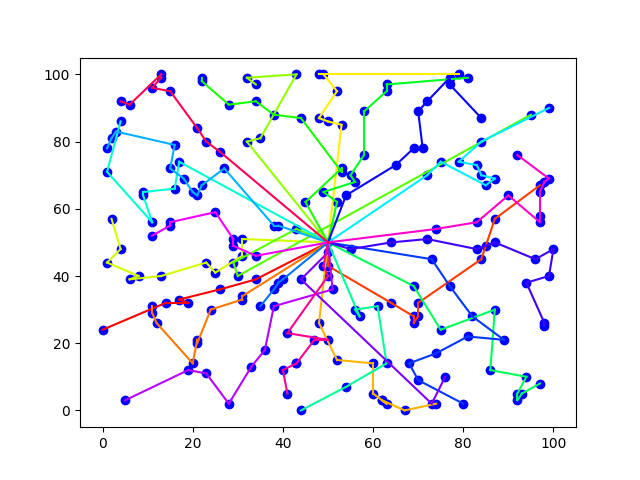
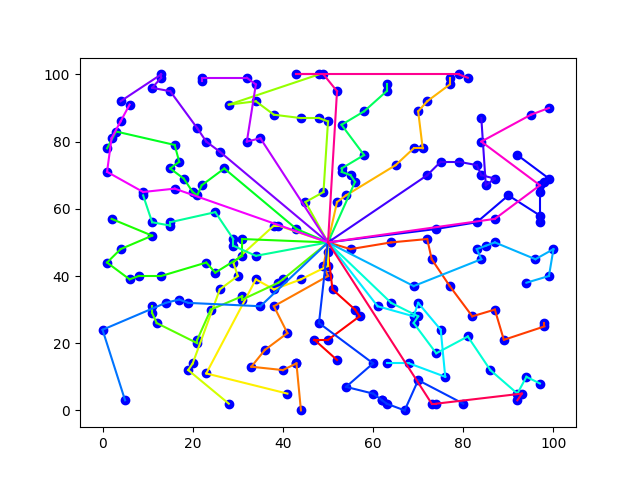
deterministic constructive algorithm and a different shaking approach

diff --git a/VRPMinimumInsertions.py b/VRPMinimumInsertions.py
@@ -38,9 +38,8 @@ class SolverMinIns:
                                                # see find_best_insertion_for_customer for the use
         self.siders_constant2 = siders_constant2
 
-    def solve(self, seed= 1 , with_sort = False): # with sort variable defines if the minimum_insertions_with_opened_routes will
+    def solve(self, with_sort = False): # with sort variable defines if the minimum_insertions_with_opened_routes will
                                         # sort the self.customers
-        random.seed(seed)
         self.SetRoutedFlagToFalseForAllCustomers()
         self.minimum_insertions_with_opened_routes(with_sort)
         print("start", self.sol.max_cost_of_route)
@@ -50,12 +49,12 @@ class SolverMinIns:
         # reloc = Relocations(self)
         # reloc.solveRelocations()
         tabu = TabuCustom.TabuCustom(self)
-        tabu.solveCombined()
+        tabu.solveTabu()
 
 
 
         # self.ReportSolution(self.sol)
-        # SolDrawer.draw(seed, self.sol, self.allNodes)
+        # SolDrawer.draw(self.sol, self.allNodes)
         return self.sol
 
     def ReportSolution(self, sol):
@@ -132,13 +131,7 @@ class SolverMinIns:
             self.sol.routes.append(rt)  # the new route gets added to the solution
 
     def identify_best_insertion_in_all_routes(self, best_insertion):
-        insertions_with_same_subj_cost = 2 # used for reservoir sampling, it is the number of the insertions with the
-                                           # same subjective cost at the time of the choice and
-                                           # 1/insertions_with_the_same_subj_cost is the probability that a
-                                           # best_insertion_for_customer with the same subjective cost as
-                                           # the current best_insertion will replace it.
-                                           # It is initialized to 2 because the first time the sampling is used, there
-                                           # are 2 insertions with the same subjective cost
+
         for i in range(len(self.customers)): # iterate all customers
             candidate_cust: Node = self.customers[i] # the current checking customer
             if candidate_cust.isRouted is False: # if the customer is not routed
@@ -146,22 +139,13 @@ class SolverMinIns:
                 self.find_best_insertion_for_customer(candidate_cust, best_insertion_for_customer) # finds the best
                                                                                                    # insertion for the
                                                                                                    # particular customer
-                if best_insertion_for_customer.subjective_cost < best_insertion.subjective_cost or \
-                        (best_insertion.subjective_cost == best_insertion_for_customer.subjective_cost #same subj_cost
-                         and random.random() < 1/insertions_with_same_subj_cost # random choice using reservoir sampling
-                        and len(best_insertion_for_customer.route.sequenceOfNodes) > 2): # don't take into consideration
+                if best_insertion_for_customer.subjective_cost < best_insertion.subjective_cost: # don't take into consideration
                                                                                       # the cases where routes contain
                                                                                       # nothing more than depot
                     # if the best insertion of the checking customer is better than the best insertion at this moment
                     # according to the subjective cost (the cost that takes into account how the new insertion affects
                     # the min max cost of the solution)
                     # the fields of bestInsertion will be updated according to the new best insertion found
-                    if best_insertion.subjective_cost == best_insertion_for_customer.subjective_cost:
-                        insertions_with_same_subj_cost += 1 # + 1 because another insertion with the same cost with the
-                                                            # best_insertion was found
-                    else:
-                        insertions_with_same_subj_cost = 2 # if a new best_insertion is found initialize
-                                                           # insertions_with_same_subj_cost back to 2
                     best_insertion.customer = best_insertion_for_customer.customer
                     best_insertion.route = best_insertion_for_customer.route
                     best_insertion.cost = best_insertion_for_customer.cost
@@ -182,7 +166,7 @@ class SolverMinIns:
                         B.ID]  # the cost of the connection that broke (it will be reduced from the trialCost)
                     trial_cost = cost_added - cost_removed  # how the cost changed after the insertion
 
-                    subjective_cost_of_insertion = trial_cost + 5*random.random()/10# if the new insertion does not affect the min max cost
+                    subjective_cost_of_insertion = trial_cost # if the new insertion does not affect the min max cost
                                                              # of the solution, then subjective_cost equals trial_cost
 
                     # if the new cost of the route (route.cost + trial.cost) is bigger than the current min max cost of

diff --git a/TabuCustom.py b/TabuCustom.py
@@ -965,9 +965,9 @@ class TabuCustom:
         if nodes_serviced != len(self.customers):
             print('Number of serviced nodes problem')
 
-    def TabuSearch(self, operator,shake=False):
+    def TabuSearch(self, operator,shake=True):
         solution_cost_trajectory = []
-        random.seed(29)
+        random.seed(19)
         self.bestSolution = self.cloneSolution(self.sol)
         terminationCondition = False
 
@@ -979,7 +979,7 @@ class TabuCustom:
         #SolDrawer.draw(0, self.sol, self.allNodes)
         if shake:
             not_changed_iterator = 0
-            shaking_flag = 600
+            shaking_flag = 1000
 
         while terminationCondition is False:
             operator = random.randint(0, 4)
@@ -1038,7 +1038,7 @@ class TabuCustom:
 
             self.addOneToIterator()
 
-            if self.tabuIterator > 5000:
+            if self.tabuIterator > 13000:
                 terminationCondition = True
         SolDrawer.draw('final_ts', self.bestSolution, self.allNodes)
         SolDrawer.drawTrajectory(solution_cost_trajectory)
@@ -1677,8 +1677,8 @@ class TabuCustom:
         self.SetArcAsTabu(c2_id, d2_id)
     def do_a_random_relocation(self):
         relocation_move = RelocationMove()
-
-        route1_index = random.randint(0, 24)
+        five_max = self.FindFiveRoutesWithMaxCost()
+        route1_index = random.choice(five_max)
         route1 = self.sol.routes[route1_index]
 
         if len(route1.sequenceOfNodes) == 2:
@@ -1725,8 +1725,8 @@ class TabuCustom:
 
     def do_a_random_swap(self):
         swap_move = SwapMove()
-
-        route1_index = random.randint(0, 24)
+        five_max = self.FindFiveRoutesWithMaxCost()
+        route1_index = random.choice(five_max)
         route1 = self.sol.routes[route1_index]
         route2_index = random.randint(0, 24)
         route2 = self.sol.routes[route2_index]
@@ -1794,7 +1794,8 @@ class TabuCustom:
     def do_a_random_two_opt(self):
         two_opt_move = TwoOptMove()
 
-        route1_index = random.randint(0, 24)
+        five_max = self.FindFiveRoutesWithMaxCost()
+        route1_index = random.choice(five_max)
         route1 = self.sol.routes[route1_index]
         route2_index = random.randint(0, 24)
         route2 = self.sol.routes[route2_index]
@@ -1837,3 +1838,20 @@ class TabuCustom:
         self.StoreBestTwoOptMove(route1_index, route2_index, origin_node_index, target_node_index, moveCost, two_opt_move)
         self.ApplyTwoOptMove(two_opt_move)
         return True
+
+    def FindFiveRoutesWithMaxCost(self):
+        five_max_routes = []
+        for i in range(len(self.sol.routes)):
+            if len(five_max_routes) < 5:
+                five_max_routes.append(i)
+            else:
+                min_route = None
+                min_cost = 10**9
+                for route_in_list in five_max_routes:
+                    if self.sol.routes[route_in_list].cost < min_cost:
+                        min_route = route_in_list
+                        min_cost = self.sol.routes[min_route].cost
+                if self.sol.routes[i].cost > min_cost:
+                    five_max_routes.remove(min_route)
+                    five_max_routes.append(i)
+        return five_max_routes

diff --git a/Main.py b/Main.py
@@ -5,13 +5,13 @@ m = Model()
 m.BuildModel()
 best = 100
 start=time.time()
-for i in range(28, 29):
-    s = SolverMinIns(m, 2.5, 0.25)
-    sol = s.solve(2)
+for i in range(0,1):
+    s = SolverMinIns(m, 4.5, 1)
+    sol = s.solve(6)
     if sol.max_cost_of_route < best:
         best = sol.max_cost_of_route
         best_i = i
-
+    print(sol.max_cost_of_route)
 
 
 end=time.time()
